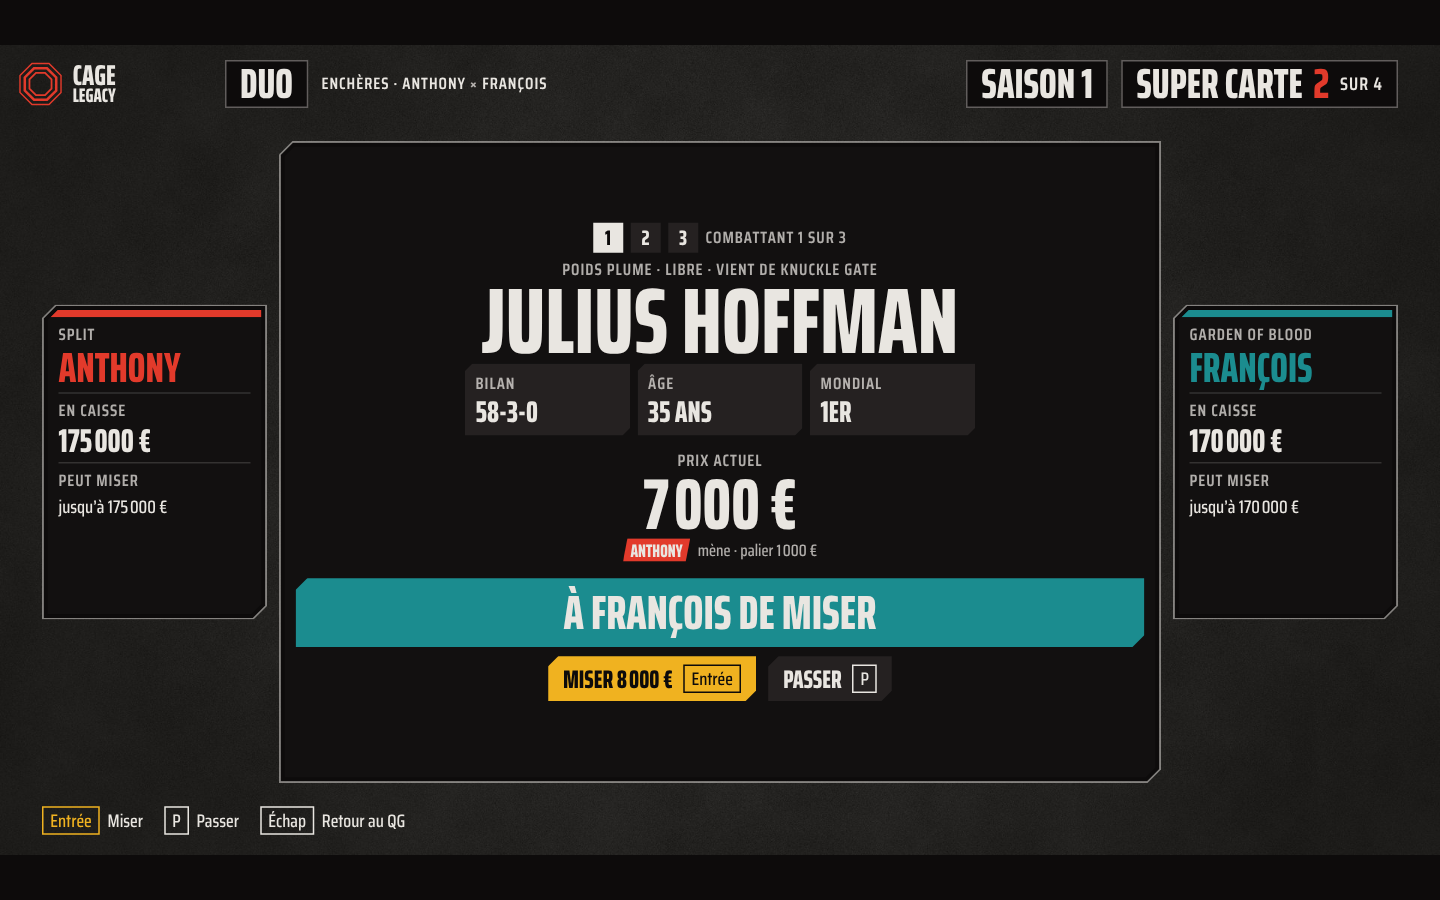
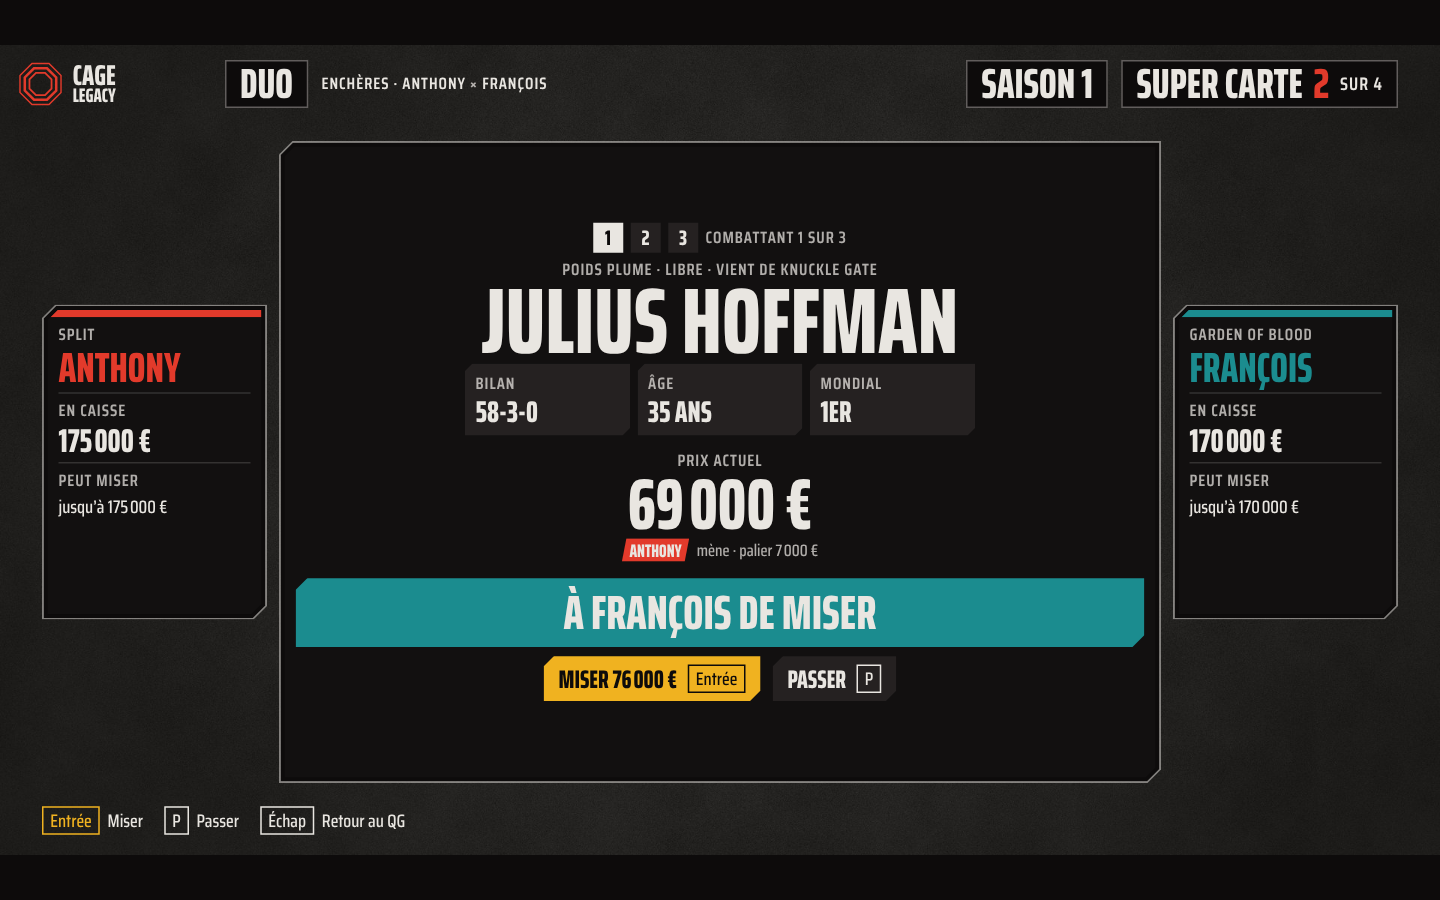
Duo : enchères ouvertes à la valeur du contrat (3 × la bourse), décision d'Anthony du 18/10
DUO-T2 (ouverture = MGMT_DUO_CONTRAT*b), brief, LISEZ-MOI ; planches Enchères et Bilan refaites
(Julius Hoffman : 69 000 €, palier 7 000 €). Audit : 0 erreur.

Claude-Session: https://claude.ai/code/session_01KfTwacR3uL6evcejB2FGkp

Changed region(s): [[0.4375, 0.5289, 0.5625, 0.6222], [0.375, 0.7156, 0.625, 0.7778]]

diff --git a/maquettes/duo/DuoEncheres.html b/maquettes/duo/DuoEncheres.html
@@ -340,8 +340,8 @@ html,body{margin:0;height:100%;background:var(--noir);overflow:hidden}
         <div class="lab">POIDS PLUME · LIBRE · VIENT DE KNUCKLE GATE</div>
         <div class="T en-cb">JULIUS HOFFMAN</div>
         <div class="en-tuiles"><div class="tuile"><div class="lab">Bilan</div><div class="T">58-3-0</div></div><div class="tuile"><div class="lab">Âge</div><div class="T">35 ANS</div></div><div class="tuile"><div class="lab">Mondial</div><div class="T">1er</div></div></div>
-        <div class="en-prixbloc"><div class="lab">Ouverture</div><div class="T en-prix">7 000 €</div><div class="l2">Personne n’a encore misé · palier 1 000 €</div></div>
-        <div class="tour j2"><span class="T">À FRANÇOIS DE MISER</span></div><div class="en-boutons"><div class="bouton jaune"><span class="T">MISER 7 000 €</span><span class="k">Entrée</span></div><div class="bouton"><span class="T">PASSER</span><span class="k">P</span></div></div></div></div></div>
+        <div class="en-prixbloc"><div class="lab">Ouverture</div><div class="T en-prix">69 000 €</div><div class="l2">Personne n’a encore misé · palier 7 000 €</div></div>
+        <div class="tour j2"><span class="T">À FRANÇOIS DE MISER</span></div><div class="en-boutons"><div class="bouton jaune"><span class="T">MISER 69 000 €</span><span class="k">Entrée</span></div><div class="bouton"><span class="T">PASSER</span><span class="k">P</span></div></div></div></div></div>
       <div class="pan en-caisse j2"><div class="p2"><div class="p3"><div class="bande"></div><div class="lab">GARDEN OF BLOOD</div><div class="T en-nom">FRANÇOIS</div>
       <div class="sep"></div><div class="lab">En caisse</div><div class="T en-v">170 000 €</div>
       <div class="sep"></div><div class="lab">Peut miser</div><div class="l1">jusqu’à 170 000 €</div></div></div></div></div><div class="en" data-etat="mise"><div class="pan en-caisse j1"><div class="p2"><div class="p3"><div class="bande"></div><div class="lab">SPLIT</div><div class="T en-nom">ANTHONY</div>
@@ -351,8 +351,8 @@ html,body{margin:0;height:100%;background:var(--noir);overflow:hidden}
         <div class="lab">POIDS PLUME · LIBRE · VIENT DE KNUCKLE GATE</div>
         <div class="T en-cb">JULIUS HOFFMAN</div>
         <div class="en-tuiles"><div class="tuile"><div class="lab">Bilan</div><div class="T">58-3-0</div></div><div class="tuile"><div class="lab">Âge</div><div class="T">35 ANS</div></div><div class="tuile"><div class="lab">Mondial</div><div class="T">1er</div></div></div>
-        <div class="en-prixbloc"><div class="lab">Prix actuel</div><div class="T en-prix">7 000 €</div><div class="l2"><span class="tag j1">ANTHONY</span> mène · palier 1 000 €</div></div>
-        <div class="tour j2"><span class="T">À FRANÇOIS DE MISER</span></div><div class="en-boutons"><div class="bouton jaune"><span class="T">MISER 8 000 €</span><span class="k">Entrée</span></div><div class="bouton"><span class="T">PASSER</span><span class="k">P</span></div></div></div></div></div>
+        <div class="en-prixbloc"><div class="lab">Prix actuel</div><div class="T en-prix">69 000 €</div><div class="l2"><span class="tag j1">ANTHONY</span> mène · palier 7 000 €</div></div>
+        <div class="tour j2"><span class="T">À FRANÇOIS DE MISER</span></div><div class="en-boutons"><div class="bouton jaune"><span class="T">MISER 76 000 €</span><span class="k">Entrée</span></div><div class="bouton"><span class="T">PASSER</span><span class="k">P</span></div></div></div></div></div>
       <div class="pan en-caisse j2"><div class="p2"><div class="p3"><div class="bande"></div><div class="lab">GARDEN OF BLOOD</div><div class="T en-nom">FRANÇOIS</div>
       <div class="sep"></div><div class="lab">En caisse</div><div class="T en-v">170 000 €</div>
       <div class="sep"></div><div class="lab">Peut miser</div><div class="l1">jusqu’à 170 000 €</div></div></div></div></div><div class="en" data-etat="adjuge"><div class="pan en-caisse j1"><div class="p2"><div class="p3"><div class="bande"></div><div class="lab">SPLIT</div><div class="T en-nom">ANTHONY</div>
@@ -362,7 +362,7 @@ html,body{margin:0;height:100%;background:var(--noir);overflow:hidden}
         <div class="lab">POIDS PLUME · LIBRE · VIENT DE KNUCKLE GATE</div>
         <div class="T en-cb">JULIUS HOFFMAN</div>
         <div class="en-tuiles"><div class="tuile"><div class="lab">Bilan</div><div class="T">58-3-0</div></div><div class="tuile"><div class="lab">Âge</div><div class="T">35 ANS</div></div><div class="tuile"><div class="lab">Mondial</div><div class="T">1er</div></div></div>
-        <div class="en-prixbloc"><div class="lab">Adjugé</div><div class="T en-prix">7 000 €</div><div class="l2">François a passé</div></div>
+        <div class="en-prixbloc"><div class="lab">Adjugé</div><div class="T en-prix">69 000 €</div><div class="l2">François a passé</div></div>
         <div class="tour j1"><span class="T">ANTHONY SIGNE JULIUS HOFFMAN</span></div><div class="en-boutons"><div class="bouton jaune"><span class="T">COMBATTANT SUIVANT</span><span class="k">Entrée</span></div></div><div class="l1 t2 en-sous">Contrat de 3 combats chez Split.</div></div></div></div>
       <div class="pan en-caisse j2"><div class="p2"><div class="p3"><div class="bande"></div><div class="lab">GARDEN OF BLOOD</div><div class="T en-nom">FRANÇOIS</div>
       <div class="sep"></div><div class="lab">En caisse</div><div class="T en-v">170 000 €</div>

diff --git a/maquettes/duo/DuoBilan.html b/maquettes/duo/DuoBilan.html
@@ -341,7 +341,7 @@ html,body{margin:0;height:100%;background:var(--noir);overflow:hidden}
       <div class="bi-argent"><div class="sous">L’argent de la super carte</div>
         <div class="ligne"><div class="l1"><span class="tag j1">ANTHONY</span> Split</div><div class="T bi-g">+ 200 000 €</div></div>
         <div class="ligne"><div class="l1"><span class="tag j2">FRANÇOIS</span> Garden of Blood</div><div class="T bi-g">+ 50 000 €</div></div></div>
-      <div class="pan bi-rec"><div class="p2"><div class="p3"><div class="sous">Recrues des enchères</div><div class="l1"><span class="tag j1">ANTHONY</span> signe <span class="nom">Julius Hoffman</span> · 7 000 €</div></div></div></div></div></div></div></div>
+      <div class="pan bi-rec"><div class="p2"><div class="p3"><div class="sous">Recrues des enchères</div><div class="l1"><span class="tag j1">ANTHONY</span> signe <span class="nom">Julius Hoffman</span> · 69 000 €</div></div></div></div></div></div></div></div>
       <div class="bi-bas"><div class="bouton jaune"><span class="T">RETOUR AU QG</span><span class="k">Entrée</span></div></div></div><div class="bi" data-etat="saison">
       <div class="bi-bandeau j1"><span class="T">ANTHONY REMPORTE LA SUPER CARTE 4</span><span class="T bi-sc">4 – 2</span></div>
       <div class="bi-cols"><div class="pan bi-liste"><div class="p2"><div class="p3"><div class="pan-tete"><div class="pan-titre"><div class="T">LES SIX COMBATS</div><div class="trait"></div></div><div class="lab">11 JANVIER</div></div><div class="bi-l bi-h"><div class="lab bi-num"></div><div class="bi-n lab">ANTHONY · SPLIT</div><div class="bi-n lab">FRANÇOIS · GARDEN OF BLOOD</div><div class="bi-m lab">Comment</div><div></div></div><div class="bi-l"><div class="lab bi-num">COMBAT 6</div><div class="bi-n l1 "><span class="pt j1"></span>Tom Rémy</div><div class="bi-n l1 gagne"><span class="pt j2"></span>Hervé Talla</div><div class="bi-m l2">Poids mouche · Décision unanime après 3 rounds</div><div class="aller">Revoir ›</div></div><div class="bi-l"><div class="lab bi-num">COMBAT 5</div><div class="bi-n l1 gagne"><span class="pt j1"></span>Cathal Maguire</div><div class="bi-n l1 "><span class="pt j2"></span>Peter McCarthy</div><div class="bi-m l2">Poids léger · KO au 3e round</div><div class="aller">Revoir ›</div></div><div class="bi-l"><div class="lab bi-num">COMBAT 4</div><div class="bi-n l1 "><span class="pt j1"></span>Kenneth Dominguez</div><div class="bi-n l1 gagne"><span class="pt j2"></span>Samuel Hopkins</div><div class="bi-m l2">Poids coq · KO au 1er round</div><div class="aller">Revoir ›</div></div><div class="bi-l"><div class="lab bi-num">COMBAT 3</div><div class="bi-n l1 gagne"><span class="pt j1"></span>Askar Osmonov</div><div class="bi-n l1 "><span class="pt j2"></span>Wei Pan</div><div class="bi-m l2">Poids moyen · KO au 2e round</div><div class="aller">Revoir ›</div></div><div class="bi-l"><div class="lab bi-num">COMBAT 2</div><div class="bi-n l1 gagne"><span class="pt j1"></span>Willow Williams</div><div class="bi-n l1 "><span class="pt j2"></span>Isabel Castanheira</div><div class="bi-m l2">Poids plume féminin · KO au 1er round</div><div class="aller">Revoir ›</div></div><div class="bi-l"><div class="lab bi-num">PRINCIPAL</div><div class="bi-n l1 gagne"><span class="pt j1"></span>Jason Bennett</div><div class="bi-n l1 "><span class="pt j2"></span>Billy Torres</div><div class="bi-m l2">Poids mi-lourd · KO au 1er round</div><div class="aller">Revoir ›</div></div></div></div></div><div class="pan bi-saison"><div class="p2"><div class="p3"><div class="pan-tete"><div class="pan-titre"><div class="T">LA SAISON 1</div><div class="trait"></div></div><div class="lab">4 SUPER CARTES</div></div>

diff --git a/maquettes/duo/src/construire.js b/maquettes/duo/src/construire.js
@@ -13,6 +13,10 @@ const MAJ=s=>String(s).toUpperCase();
 const ORG=id=>D.orgs.find(o=>o.id===id);
 const A=ORG(D.j1), B=ORG(D.j2), NA=D.noms.a, NB=D.noms.b;
 const C1=D.cartes[0], C2=D.cartes[1], C4=D.cartes[3], DIVS=C1.divisions;
+/* Décision du 18/10 (16 h 08) : l'ouverture des enchères = la valeur du contrat, 3 × la bourse ; palier de 10 %. */
+const eurosK=k=>{ const v=Math.round(k*1000), t=String(Math.abs(v)).replace(/\B(?=(\d{3})+(?!\d))/g,'\u202f'); return (v<0?'−':'')+t+'\u00a0€'; };
+for(const c of D.cartes) for(const l of c.lots){ l.ouverture=3*l.b; l.pas=Math.max(1,Math.ceil(l.ouverture*0.1));
+  l.ouvertureTxt=eurosK(l.ouverture); l.pasTxt=eurosK(l.pas); l.deux=eurosK(l.ouverture+l.pas); l.trois=eurosK(l.ouverture+2*l.pas); }
 const cote=c=>c==='a'?{org:A,nom:NA,cls:'j1'}:{org:B,nom:NB,cls:'j2'};
 const DIV=id=>(DIVS.find(d=>d.id===id)||{}).label||id;
 const rec=f=>`${f.W}-${f.L}-${f.D}`;

diff --git a/docs/lots/DUO-T2.md b/docs/lots/DUO-T2.md
@@ -14,10 +14,11 @@ perdu la dernière super carte commence (J2 à la première, comme le draft).
 Où l'on recrute dans le jeu solo, pour mémoire : **Contrats → onglet Recrutement** (`mgmt-contrats-ecran.js`), qui liste
 les sans-contrat du monde. Le Duo lit **la même liste** (`mgmtRecrutables`) : pas de second marché.
 
-**Depuis la décision du 18/10** (caisse stable pendant les soirées des adjoints, gains de la super carte : DUO-T1), une caisse
-ne plonge plus en dehors des enchères : la mise reste bornée par `mgmtCanAfford`. **Question encore ouverte pour Anthony** : le
-prix d'ouverture (aujourd'hui la prime de signature, 5 000 à 8 000 € dans la partie des planches) — passer à la valeur du
-contrat (3 × la bourse) ? Tant qu'il n'a pas répondu, code la prime, comme écrit ci-dessous.
+**Décisions du 18/10** : caisse stable pendant les soirées des adjoints et gains de la super carte (DUO-T1) ; et, à 16 h 08,
+Anthony retient la recommandation de Claude : **le prix d'ouverture est la valeur du contrat, 3 × la bourse demandée**
+(ex. : bourse de 23 000 € → ouverture à 69 000 €, palier de 7 000 €), et non plus la prime de signature (7 000 € pour le même
+combattant). L'argent des super cartes (200 000 € au vainqueur) sert ainsi à quelque chose : une recrue de premier plan coûte
+le tiers d'une victoire. La mise reste bornée par `mgmtCanAfford`.
 
 ## Ce qui change
 
@@ -26,16 +27,16 @@ contrat (3 × la bourse) ? Tant qu'il n'a pas répondu, code la prime, comme éc
 ```js
 const MGMT_DUO_LOTS=3;            // combattants mis aux enchères par super carte
 const MGMT_DUO_CONTRAT=3;         // combats du contrat signé
-const MGMT_DUO_PALIER=0.10;       // le palier = 10 % du prix d'ouverture, arrondi au-dessus, au moins 1 k$
+const MGMT_DUO_PALIER=0.10;       // le palier = 10 % du prix d'ouverture, arrondi au-dessus, au moins 1 k€
 ```
 
 1. `mgmtDuoLots(m)` → les combattants mis aux enchères. Pour chaque catégorie de `allDivisions()`, le **premier** de
    `mgmtRecrutables(m,div.id)` (ordre du classement mondial) dont l'organisation (`mgmtExteriorCombattant(m,id).orgId`)
    n'est **pas** celle de J2 (`m.duo.b`) ; puis tri par `rang` croissant, `mgmtStar` décroissant, `id` ; les
    `MGMT_DUO_LOTS` premiers (`mgmtStar` lu sur la ligne rendue par `mgmtExteriorCombattant`). Lu avec `G.mgmt===m`. Pour chacun :
-   - `b = mgmtBourseSouhaitee(m, mgmtExteriorPourOffre(m,id), false)` — sert **seulement** à fixer le prix d'ouverture, le même pour les deux joueurs
+   - `b = mgmtBourseSouhaitee(m, mgmtExteriorPourOffre(m,id), false)` — la bourse par combat ; sert **seulement** à fixer le prix d'ouverture, le même pour les deux joueurs
      (la bourse dépend de la popularité et du profil de l'organisation qui la lit : on la lit chez J1 pour l'ouverture, puis chez le gagnant pour son contrat) ;
-   - `ouverture = mgmtContratPrime(MGMT_DUO_CONTRAT,b)` ; `pas = Math.max(1,Math.ceil(ouverture*MGMT_DUO_PALIER))`.
+   - `ouverture = MGMT_DUO_CONTRAT*b` (la valeur du contrat, décision du 18/10) ; `pas = Math.max(1,Math.ceil(ouverture*MGMT_DUO_PALIER))`.
    Rend `[{id,name,div,orgId,rang,b,ouverture,pas}]`.
 2. **Branchement dans `mgmtDuoAvancerPas`** (DUO-T1) : à l'arrivée à la date, si `mgmtDuoLots(m)` n'est pas vide,
    `etape='encheres'` et

diff --git a/docs/BRIEF-18-10-MODE-DUO.md b/docs/BRIEF-18-10-MODE-DUO.md
@@ -21,6 +21,7 @@ Réponses aux questions du 18/10 :
 | Formation des 6 combats | **« Je place, tu réponds »** : un joueur place un de ses combattants, l'autre choisit son adversaire dans la même catégorie, puis on inverse (3 placements chacun) |
 | Enchères sur les combattants libres | **Ouvertes, à tour de rôle** : chacun surenchérit ou abandonne, à la vue de l'autre |
 | Qui code | OpenCode (agents sur ChatGPT), d'après les fiches |
+| Prix des enchères (18/10, 16 h 08) | **Recommandation de Claude retenue** : le prix d'ouverture est la valeur du contrat, **3 × la bourse demandée** (≈ 60 000 à 95 000 € pour les meilleurs libres), palier de 10 % |
 | L'argent (décision du 18/10, 15 h 54) | **« Le matchmaker automatique reste toujours stable et ce sont les super cartes qui génèrent le plus de bénéfices pour le vainqueur. »** Les soirées ordinaires jouées par les adjoints ne font plus bouger la caisse des deux joueurs ; la super carte rapporte gros au vainqueur, moins au perdant |
 
 ## 2. Le mode en une page
@@ -40,7 +41,7 @@ Réponses aux questions du 18/10 :
   pas, quoi que fasse le matchmaker automatique. **La super carte est la grande source d'argent** : 200 000 € au vainqueur,
   50 000 € au perdant, 125 000 € chacun sur égalité (montants proposés par Claude, réglables : une petite soirée ordinaire
   encaisse environ 270 000 à 420 000 € de billetterie et de droits pour un bénéfice net de −50 000 à +70 000 €, mesuré sur
-  8 soirées de Split le 18/10). Les dépenses du Duo sont les enchères.
+  8 soirées de Split le 18/10). Les dépenses du Duo sont les enchères, ouvertes à la valeur du contrat (3 × la bourse).
 
 ## 3. Pourquoi c'est faisable vite (ce qui existe déjà)
 

diff --git a/maquettes/duo/LISEZ-MOI.md b/maquettes/duo/LISEZ-MOI.md
@@ -59,7 +59,7 @@ planches de la refonte (valeurs de `ui-cadre.css`) ; `src/duo.css` ajoute ce qui
    découvert à chaque super carte (−106 000 € à −300 000 €) : le matchmaker automatique la faisait plonger, et Anthony ne pouvait plus
    miser. Les planches sont refaites avec la règle décidée (DUO-T1) : **les soirées des adjoints ne font plus bouger la caisse**, la
    super carte rapporte **200 000 € au vainqueur, 50 000 € au perdant** (125 000 € chacun sur égalité). Le bilan montre ces gains.
-   **Reste ouvert** : le prix d'ouverture des enchères (la prime de signature, 5 000 à 8 000 € ici) — passer à la valeur du contrat
-   (3 × la bourse) pour que l'argent des super cartes ait un usage ?
+   **Prix des enchères — tranché le 18/10 (16 h 08)** : Anthony retient la recommandation de Claude, le prix d'ouverture est **la
+   valeur du contrat, 3 × la bourse** (Julius Hoffman : 69 000 € au lieu de 7 000 €, palier 7 000 €). Les planches le montrent.
 2. **L'écran « Nouvelle partie » du jeu coupe déjà certaines réputations** (hauteur de 48 px pour deux lignes) : la planche garde 50 px et
    resserre les marges ; à revoir dans `ui-cadre.css` en même temps que DUO-T3.
